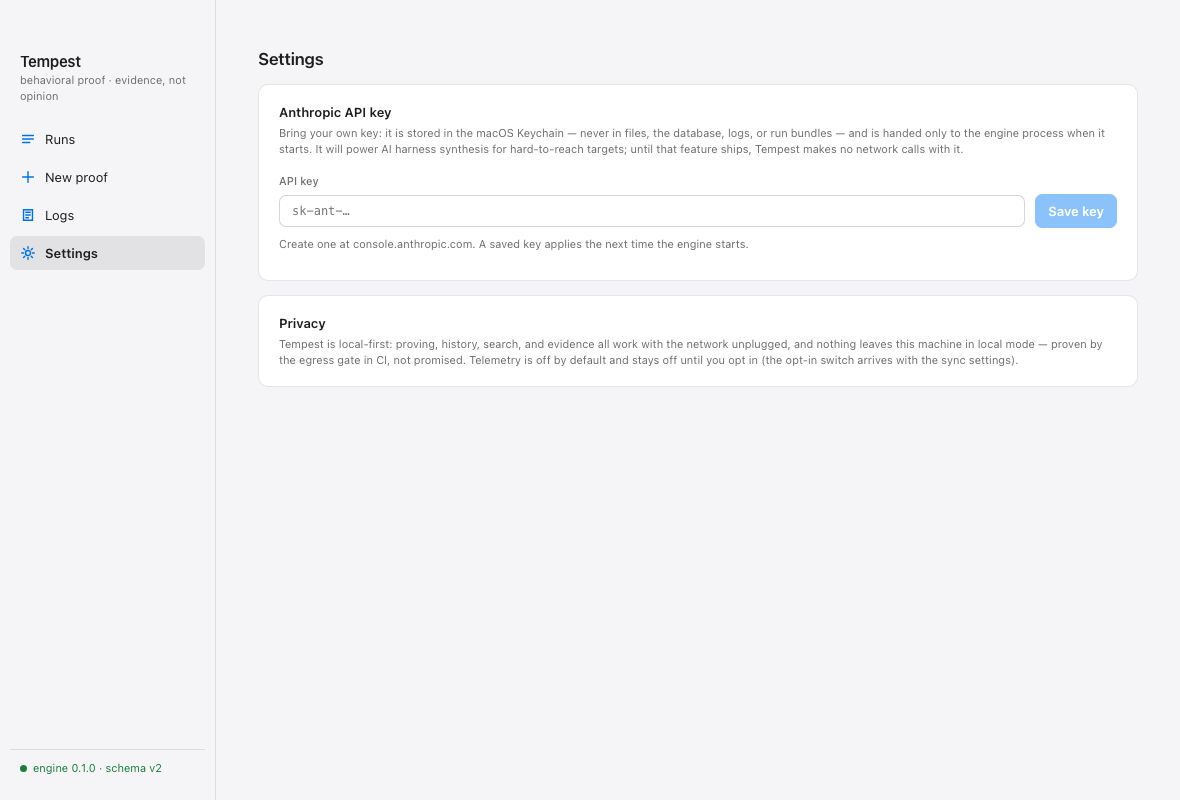
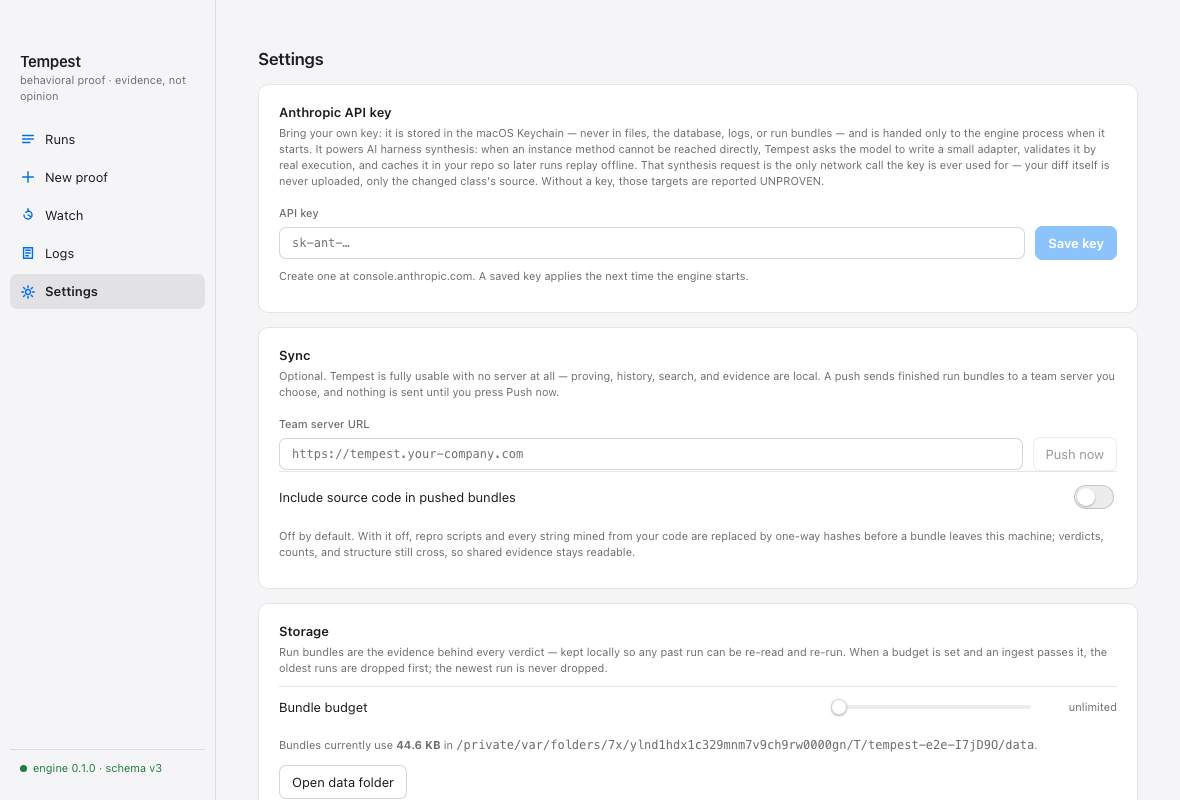
docs: ADR-0030 phase row, trap 36, refreshed UI screenshots (watch + settings)

diff --git a/docs/HANDOFF-PHASES.md b/docs/HANDOFF-PHASES.md
@@ -48,7 +48,7 @@ phase for owner review, and rebuild+reinstall the app to /Applications each phas
 | **13 Team Sync (core)** | ✅ protocol 2026-08-14 (ADR-0022) | `checkBundlePresence` + `syncPush`: delta-only, idempotent, resumable — the store IS the queue; source stripped BEFORE hash/wire by default (`syncstrip`, opt-in `TEMPEST_SYNC_SHARE_SOURCE=1`); gates ran against a REAL killed-and-restarted second server: no dup/loss, push=pull byte-identical. **PENDING(docker):** compose end-to-end, Postgres sync gate, Helm, image signing (`docs/DEPLOY-SYNC.md`) |
 | **Flawless bar (owner, 14 Aug eve)** | ✅ 2026-08-14 (ADR-0023) | **Coverage gate = 100%** (`fail_under=100`; 802 tests; 4,676 stmts + 1,320 branches, 0 missed; subprocess coverage via scripts/covstart; justified pragmas only). **Adversarial-review wave**: 4 critical + 12 major + 11 minor confirmed findings fixed test-first (verdict integrity, GC-after-commit, sync source-strip, redaction 23/23, process safety, docker -i/named-kill). verify green, parity byte-identical, orphan 2.7 s, fresh app installed |
 | **12 Distribution (GitHub-only)** | ✅ rescoped + built 2026-08-14 (ADR-0021) | Owner decision: no Apple ID/certs — `release.yml` on tag: wheel/sdist + unsigned .app + SHA256SUMS + install-check job (`uv tool install` + doctor on clean runners); README install docs. **Gate fires on first tag push** |
-| **HW-C 3.2 Settings + watch in the app** | ✅ 2026-08-17 late (ADR-0030) | **One config law**: `settings.json` in the data dir (versioned, refuse-newer; corrupt/unknown-key = explicit error, never a silent reset) with **environment > file > default** — and every env-forced field is NAMED through the boundary (`EnvOverride{field,variable}`), so the screen disables that control and says which variable to unset instead of lying. Engine read path degrades a damaged file to defaults (L8) *while still applying the environment* — a broken file must not switch off an opted-in export. Budget ceiling 2 GiB, stated (Boundary B integers are 32-bit). **Sync/Storage/Privacy groups** render real config (server URL + source-sharing + Push now w/ SyncReport; budget slider + live store size + Open data folder; telemetry toggle + diagnostic export). **Test key** = ONE `messages.create(max_tokens=1, "ping")` on the SAME synthesis egress surface — no source, no repo, nothing stored; keyless = zero network + the actionable sentence. **Diagnostics have one implementation** (`write_diagnostic_bundle`, shared CLI+API); the host's `reveal_in_data_dir` accepts only a plain leaf (`safe_leaf`), joined to the app's own data dir. **Watch in the app** (`watchsession.py` + Watch destination): a watched commit becomes an ORDINARY run — same list, ledger, cancel, bundle, search, RunProgressEvent (the host tracks the loop's active run) — and the proven-commit feed is a QUERY over the `watch.commit` ledger mark, so it survives restarts and cannot drift. L11: commit taken at prove START (no infinite re-prove), the battery/thermal hold is entered with a CancelScope so Stop returns mid-hold, and Stop cancels the in-flight prove → CANCELLED, never a verdict. **Trap 36** (greenlet-crossing coverage attribution) fixed structurally. Gates: {GATES} |
+| **HW-C 3.2 Settings + watch in the app** | ✅ 2026-08-17 late (ADR-0030) | **One config law**: `settings.json` in the data dir (versioned, refuse-newer; corrupt/unknown-key = explicit error, never a silent reset) with **environment > file > default** — and every env-forced field is NAMED through the boundary (`EnvOverride{field,variable}`), so the screen disables that control and says which variable to unset instead of lying. Engine read path degrades a damaged file to defaults (L8) *while still applying the environment* — a broken file must not switch off an opted-in export. Budget ceiling 2 GiB, stated (Boundary B integers are 32-bit). **Sync/Storage/Privacy groups** render real config (server URL + source-sharing + Push now w/ SyncReport; budget slider + live store size + Open data folder; telemetry toggle + diagnostic export). **Test key** = ONE `messages.create(max_tokens=1, "ping")` on the SAME synthesis egress surface — no source, no repo, nothing stored; keyless = zero network + the actionable sentence. **Diagnostics have one implementation** (`write_diagnostic_bundle`, shared CLI+API); the host's `reveal_in_data_dir` accepts only a plain leaf (`safe_leaf`), joined to the app's own data dir. **Watch in the app** (`watchsession.py` + Watch destination): a watched commit becomes an ORDINARY run — same list, ledger, cancel, bundle, search, RunProgressEvent (the host tracks the loop's active run) — and the proven-commit feed is a QUERY over the `watch.commit` ledger mark, so it survives restarts and cannot drift. L11: commit taken at prove START (no infinite re-prove), the battery/thermal hold is entered with a CancelScope so Stop returns mid-hold, and Stop cancels the in-flight prove → CANCELLED, never a verdict. **Trap 36** (greenlet-crossing coverage attribution) fixed structurally. Gates: **1019 tests / 100.00% BOTH denominators** (5,782 stmts + 1,644 branches; linux 1013/100.00%), corpus 30/30 stable ×5, escape 27/27 contained (T2), redaction 24/24, vitest 27, cargo 12+5, desktop E2E **20/20** console-clean, contract drift 0, parity byte-identical, frozen TOC carries the `.mjs` pair (trap 32), orphan 2.2s, app 20:57 |
 | **HW-C 2.4 Continuous agent** | ✅ 2026-08-17 (ADR-0029) | `tempest watch`: every new commit proven incrementally (prev→new, per-commit bundles; L11 pause between polls, Ctrl-C clean, `--from`/`--once` deterministic under test — 6 arms pinned w/ real repos+proves). **AI narratives**: `DivergenceRecord.ai_narrative` (bundle schema v3, tolerant reader; alembic 0005 + local-store step + REVISION_CHAIN — the gate caught the chain gap: stamped older DBs would have silently missed the column), generated FROM evidence AFTER verdicts by the BYOK key (keyless→None zero-egress; API failure→None; labeled "AI narrative" in CLI + app; DROPPED WHOLE under sync source-strip — a paraphrase can't be scrubbed span-wise, L9 — planted-literal sweep covers it). Keyed synthesis gate proves narratives end-to-end vs the local peer, identical verdicts. Gates: 949/100.00% + 943/100.00% linux (5,391+1,592), redaction 24/24, E2E 14, vitest 27, parity, orphan 2.1s, app 12:12 |
 | **HW-C 2.3 TypeScript exec wave 1** | ✅ 2026-08-16 late (ADR-0028) | **Tempest is BILINGUAL**: exported module-level `.ts` functions (sync+async) execute under node native type stripping (offsets preserved → honest per-input V8 coverage w/ count-0 subtraction); `ts_shims.mjs` = L3's JS half (seeded Math.random/Date/perf/crypto — worker runs byte-identical); `ts_dual.py` verdicts via the SAME comparator (base self-agreement → NONDETERMINISTIC_BASE; fresh-pair confirm; typed-pool inputs; `.mjs` repros; ddmin=wave 2 stated); prove.py per-symbol TS honesty replaces the blanket record. **Classifier followed capability** (async runnable; shimmed ambient pure) — which EXPOSED `fetch` missing from IO-globals (masked by the old async arm; async IO would have been blessed off error paths) — fixed+pinned. tsfix gate 8/8 (zero false divergences; shim-dependent no-op IS the shim proof); ts_dual arms 16+6; frozen app bundles the `.mjs` pair (verified in TOC — parity can't see TS). Gates: 938/100.00% + 932/100.00% linux (5,320+1,582), E2E 14, vitest 27, orphan 2.1s, app 23:22 |
 | **HW-C stage-2 env repro** | ✅ 2026-08-16 night (ADR-0027) | **THE NUMBER MOVED: 21% → 34%** (humanize 0→88% w/ 6 real DIVERGENT; slugify 0→71% w/ 1). `envrepro/deps.py`: static pyproject/setup.py-AST metadata (constant folding, name may stay None — never executed), dist-info shim, `_version.py` shim from `git describe` (hatch-vcs pattern), wheels-only `uv pip install --target` offline-first (`--fetch-deps`/`TEMPEST_FETCH_DEPS=1` opt-in, cache → offline reruns); worktrees self-describe (`.tempest-deps` symlink + remediation note → introspect UNPROVEN). **T2/T1 carve fix:** the symlink target was outside the Seatbelt repo carve/Docker mounts — profile gains the resolved site dir; gate grew a REAL T2 leg (ProcessSandbox-only integration is blind to profile bugs). First re-measure moved nothing — both hypotheses falsified by bundles, fixes landed only after reproducing each import by hand. Residual 12 import failures = dev scripts, out of scope, stated |

diff --git a/docs/HANDOFF-NEXT.md b/docs/HANDOFF-NEXT.md
@@ -78,13 +78,14 @@ shape, this is the entire law:
 
 ## 4. Remaining work, in recommended order (each is one phase with its gate)
 
-1. **Part 3 UI remainder** (`HANDOFF-WORLD-CLASS.md` §3.2-3.3): Settings groups for
-   sync/storage/privacy (render real config, honest copy), a "Test key" button (one live
-   ping, clearly labeled, uses the sanctioned egress path), **the watch live feed in the
-   app** (surface `tempest watch` through the API/supervisor with RunProgress events —
-   the CLI loop in `cli/watch.py` is the reference), motion polish, and the accessibility
-   pass (VoiceOver, keyboard, 200% zoom). Gate: E2E specs for each new surface,
-   console-clean, screenshots over real data.
+1. ~~**Part 3 UI remainder** — Settings groups + Test key + the watch live feed~~
+   **DONE 2026-08-17 late (ADR-0030, commit `c189bcd`)**: `settings.json` with
+   environment > file > default and every forced field NAMED to the user; Sync/Storage/
+   Privacy groups over real config; "Test key" on the sanctioned egress surface; a Watch
+   destination whose commits become ORDINARY runs (feed = a query over the `watch.commit`
+   ledger mark). Screenshots refreshed in `docs/ui/` (now 16, incl. watch light/dark).
+   **Still open from Part 3: motion polish beyond view transitions, and the accessibility
+   pass (VoiceOver, keyboard, 200% zoom).**
 2. **1.1 hardening** (§1.1's open list): exhaustive-enum component renders (vitest, the
    `never`-guard pattern per enum), `reportUiError` (window error/unhandledrejection →
    obslog via a new command, redactor-scrubbed), the BUILT-app driver E2E leg,
